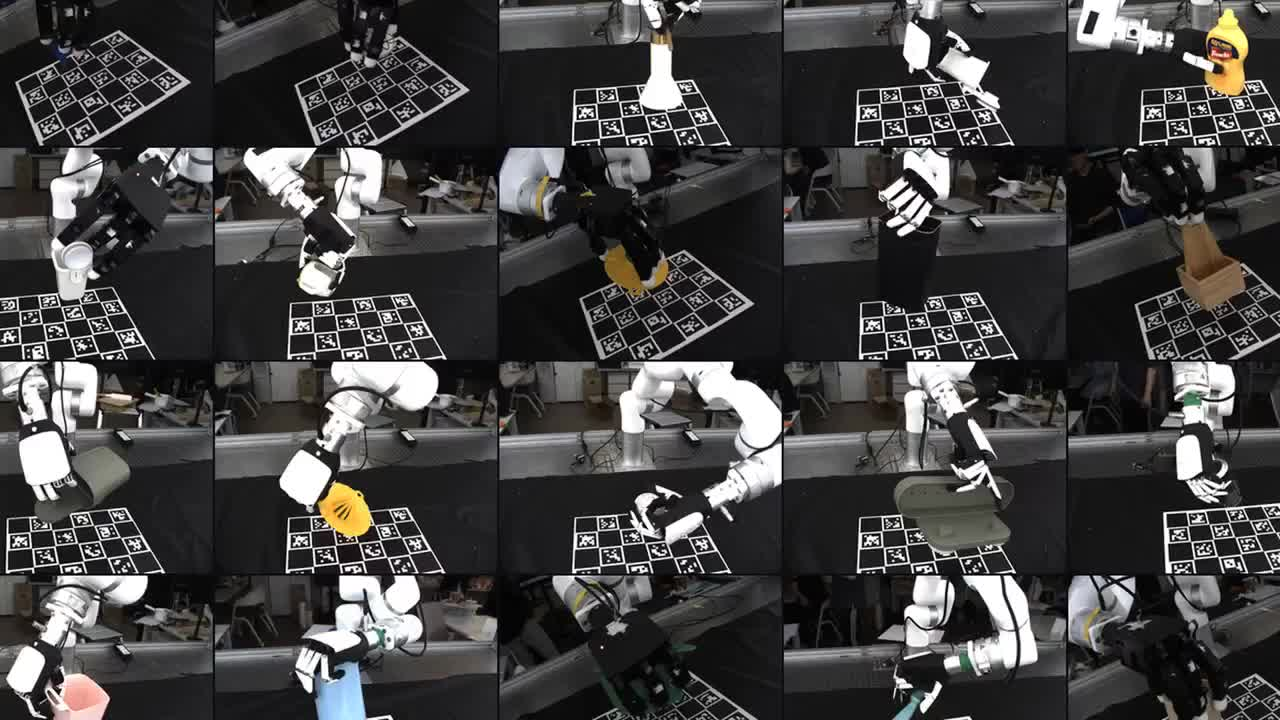
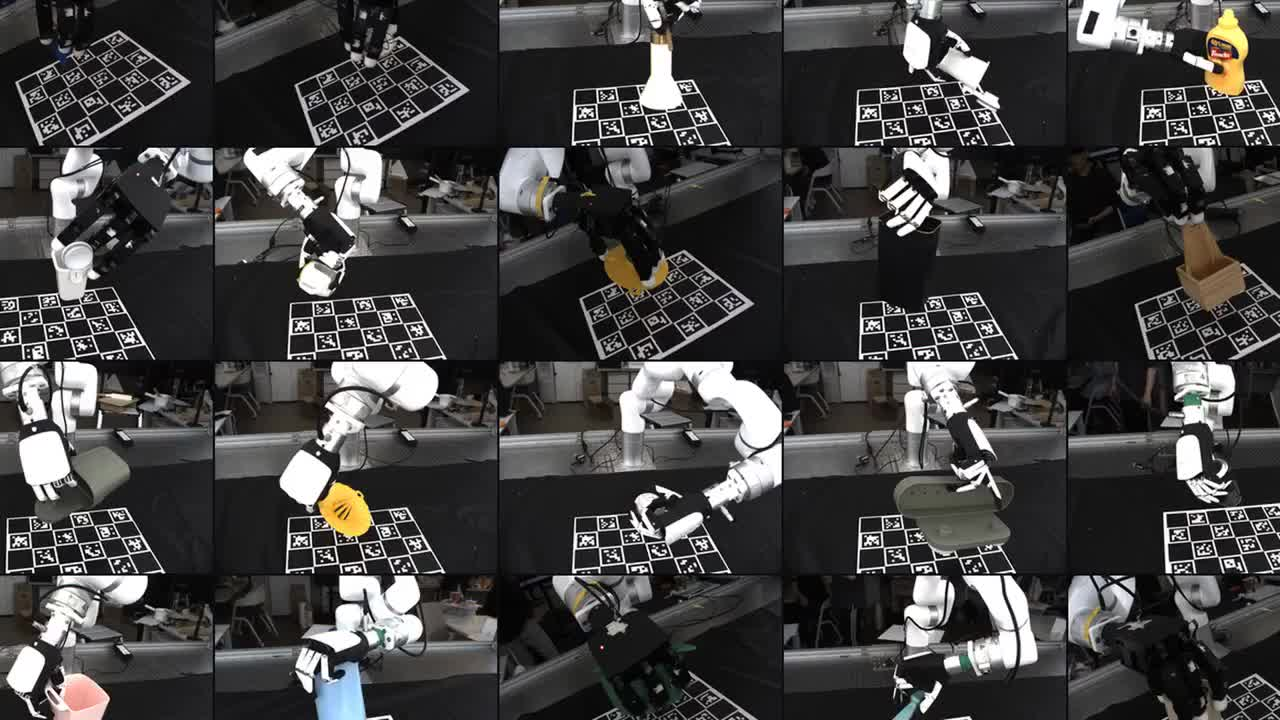
Dataset video: cut first 6s instead (keep 6-16s); refresh poster

diff --git a/index.html b/index.html
@@ -14,7 +14,7 @@
   <link rel="preconnect" href="https://fonts.gstatic.com" crossorigin>
   <link href="https://fonts.googleapis.com/css2?family=Inter:wght@400;500;600;700;800&family=Space+Grotesk:wght@500;600;700&family=Noto+Sans+KR:wght@400;500;700&display=swap" rel="stylesheet">
   <link rel="stylesheet" href="https://cdnjs.cloudflare.com/ajax/libs/font-awesome/6.4.0/css/all.min.css">
-  <link rel="stylesheet" href="static/css/index.css?v=20260623a5">
+  <link rel="stylesheet" href="static/css/index.css?v=20260623a6">
 </head>
 <body>
 
@@ -191,6 +191,6 @@
     </div>
   </footer>
 
-  <script src="static/js/index.js?v=20260623a5"></script>
+  <script src="static/js/index.js?v=20260623a6"></script>
 </body>
 </html>